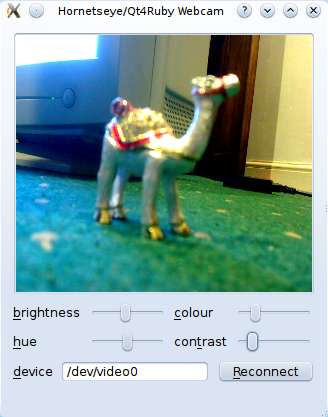
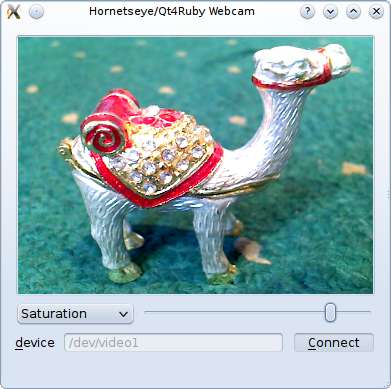
Improved webcam example

diff --git a/docs/Applications.md b/docs/Applications.md
@@ -202,73 +202,74 @@ The UI file is available for download here: [webcam.ui](webcam.ui)
     include Hornetseye
     app = Qt::Application.new ARGV
     class Webcam < Qt::Dialog
-      slots 'open_camera()'
-      slots 'set_brightness(int)'
-      slots 'set_hue(int)'
-      slots 'set_colour(int)'
-      slots 'set_contrast(int)'
+      slots 'open_camera(bool)'
+      slots 'select_feature(int)'
+      slots 'set_feature(int)'
       def initialize( parent = nil )
         super parent
         @ui = Ui::WebcamWindow.new
         @ui.setupUi self
-        @sliders = { @ui.brightnessSlider => V4L2Input::FEATURE_BRIGHTNESS,
-                     @ui.hueSlider => V4L2Input::FEATURE_HUE,
-                     @ui.colourSlider => V4L2Input::FEATURE_SATURATION,
-                     @ui.contrastSlider => V4L2Input::FEATURE_CONTRAST }
         @xvwidget = XvWidget.new
         @ui.scrollArea.widget = @xvwidget
-        connect @ui.reconnectButton, SIGNAL('clicked()'), self, SLOT('open_camera()')
-        connect @ui.brightnessSlider, SIGNAL('valueChanged(int)'),
-                self, SLOT('set_brightness(int)')
-        connect @ui.hueSlider, SIGNAL('valueChanged(int)'),
-                self, SLOT('set_hue(int)')
-        connect @ui.colourSlider, SIGNAL('valueChanged(int)'),
-                self, SLOT('set_colour(int)')
-        connect @ui.contrastSlider, SIGNAL('valueChanged(int)'),
-                self, SLOT('set_contrast(int)')
+        connect @ui.connectButton, SIGNAL('toggled(bool)'), self, SLOT('open_camera(bool)')
+        connect @ui.featureCombo, SIGNAL('currentIndexChanged(int)'),
+                self, SLOT('select_feature(int)')
+        connect @ui.featureSlider, SIGNAL('valueChanged(int)'),
+                self, SLOT('set_feature(int)')
+        @input = nil
         @timer = 0
-        open_camera
+        @features = []
       end
-      def open_camera
-        @ui.errorLabel.text = ''
+      def open_camera(on)
         begin
-          if @input
-            @input.close
-            @input = nil
-          end
-          input = V4L2Input.new @ui.deviceEdit.text do |modes|
-            modes.select { |mode| mode[0].rgb? }.sort_by { |mode| (mode[1] - 640).abs }.first
-          end
-          input.read
-          @sliders.each do |slider,feature|
-            if input.feature_exist? feature
-              slider.minimum = input.feature_min feature
-              slider.maximum = input.feature_max feature
-              slider.value = input.feature_read feature
-              slider.enabled = true
-            else
-              slider.enabled = false
+          if on
+            @ui.errorLabel.text = ''
+            @input = V4L2Input.new @ui.deviceEdit.text do |modes|
+              modes.select { |mode| mode[0].rgb? }.sort_by { |mode| (mode[1] - 640).abs }.first
             end
+            @input.read
+            for feature in V4L2Input::FEATURE_BASE .. V4L2Input::FEATURE_LASTP1
+              if @input.feature_exist? feature
+                @features << feature
+                @ui.featureCombo.addItem @input.feature_name(feature)
+              end
+            end
+            @ui.featureCombo.enabled = true
+            @ui.deviceEdit.enabled = false
+            @timer = startTimer 0
+          else
+            killTimer @timer if @timer != 0
+            if @input
+              @input.close
+              @input = nil
+            end
+            @features = []
+            @ui.featureCombo.clear
+            @ui.deviceEdit.enabled = true
+            @ui.featureCombo.enabled = false
           end
-          @input = input
-          @timer = startTimer 0 if @timer == 0
         rescue RuntimeError => e
           @ui.errorLabel.text = e.to_s
-          @input = nil
+          @ui.connectButton.checked = false
         end
-        @input
       end
-      def set_brightness( value )
-        @input.feature_write V4L2Input::FEATURE_BRIGHTNESS, value if @input
+      def select_feature(value)
+        if @input and value >= 0
+          feature = @features[value]
+          @input, input = nil, @input
+          @ui.featureSlider.minimum = input.feature_min feature
+          @ui.featureSlider.maximum = input.feature_max feature
+          @ui.featureSlider.value = input.feature_read feature
+          @ui.featureSlider.enabled = true
+          @input = input
+        else
+          @ui.featureSlider.enabled = false
+        end
       end
-      def set_hue( value )
-        @input.feature_write V4L2Input::FEATURE_HUE, value if @input
-      end
-      def set_colour( value )
-        @input.feature_write V4L2Input::FEATURE_SATURATION, value if @input
-      end
-      def set_contrast( value )
-        @input.feature_write V4L2Input::FEATURE_CONTRAST, value if @input
+      def set_feature(value)
+        if @input
+          @input.feature_write @features[@ui.featureCombo.currentIndex], value
+        end
       end
       def timerEvent( e )
         begin
